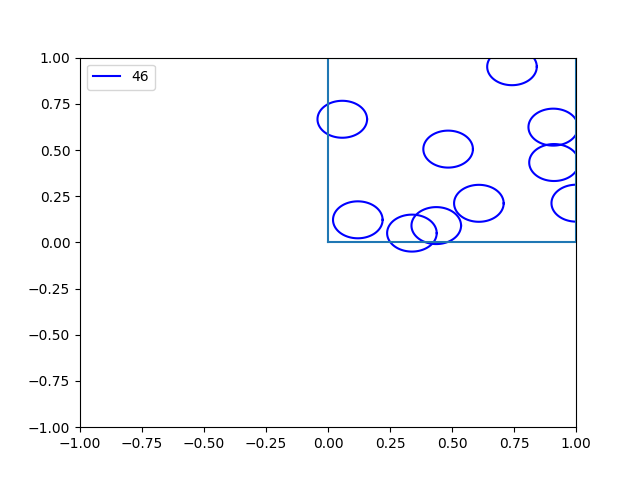
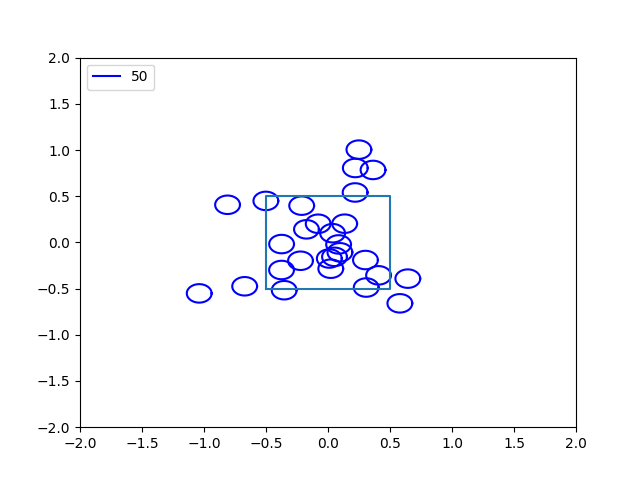
fixed remove_irrelevent_cricles

diff --git a/genetic_algo.py b/genetic_algo.py
@@ -1,4 +1,5 @@
 import numpy as np
+import os, shutil
 from shapely import geometry
 from shapely import ops
 from shapely.ops import cascaded_union
@@ -34,16 +35,21 @@ class Circle:
 
 class Agent:
 
-    def __init__(self, _radius, bounding_box, length):
+    def __init__(self, radius=None, bounding_box=None, length=None, adam=True):
 
         """ bounding_box is a list w/ bottom left corner and top right corner """
 
         self.fitness = -1000 #Dummy value 
-        self.length = length
-        self.radius = _radius
+        self.radius = radius
         self.bounding_box = bounding_box
-        self.circle_list = [Circle(self.radius, (random.uniform(bounding_box[0][0], bounding_box[1][0]),\
+        self.length = length
+
+        if adam == True:
+            self.circle_list = [Circle(self.radius, (random.uniform(bounding_box[0][0], bounding_box[1][0]),\
             random.uniform(bounding_box[0][1], bounding_box[1][1])))  for _ in range(length)]
+
+    def update_agent(self):
+        self.length = len(self.circle_list)
 
     def plot_agent(self):
 
@@ -90,21 +96,19 @@ def total_area_fraction(bounding_box, polygon_list):
 
 def remove_irrelevent_circles(agent, region):
     for circle in agent.circle_list:
-        if region.intersection(circle.polygon) == 0:
-            print(region.intersection(circle.polygon))
+        if region.intersection(circle.polygon).area < .001:
             agent.circle_list.remove(circle)
 
 #GA part
 def init_agents(radius, soft_bounding_box, length = 50):
 
-    return [Agent(radius, soft_bounding_box, length) for _ in range(population)]
+    return [Agent(radius=radius, bounding_box=soft_bounding_box, length=length) for _ in range(population)]
 
 def fitness(agent_list, region, bounding_box):
 
-    alpha = 10
+    alpha = 100
     beta = 20
-    chi = 10
-    gamma = 20
+    chi = 5
 
     for agent in agent_list:
 
@@ -112,8 +116,8 @@ def fitness(agent_list, region, bounding_box):
 
         agent.fitness = (alpha * intersection_region_fraction(region, agent_polygon_list)) - (beta * double_intersection(agent_polygon_list))\
             - (chi * total_area_fraction(bounding_box, agent_polygon_list))
-        #print((alpha * intersection_region_fraction(region, agent_polygon_list)), (beta * double_intersection(agent_polygon_list))\
-            #, chi * total_area_fraction(bounding_box, agent_polygon_list), gamma * (agent.length/100), agent.fitness)
+        print((alpha * intersection_region_fraction(region, agent_polygon_list)), (beta * double_intersection(agent_polygon_list))\
+            , chi * total_area_fraction(bounding_box, agent_polygon_list), agent.fitness)
 
     return agent_list
 
@@ -130,33 +134,35 @@ def crossover(agent_list, region):
     """ Crossover is determined by randomly splitting polygon in half and then taking circles from each side. It'll probably mess up on the
     boundary tbh but I couldn't think of another crossover function """
 
-    def getExtrapoledLine(p1,p2):
-        'Creates a line extrapoled in p1->p2 direction'
-        EXTRAPOL_RATIO = 10
-        a = (p2[0]+EXTRAPOL_RATIO*(p1[0]-p2[0]), p2[1]+EXTRAPOL_RATIO*(p1[1]-p2[1]))
-        b = (p1[0]+EXTRAPOL_RATIO*(p2[0]-p1[0]), p1[1]+EXTRAPOL_RATIO*(p2[1]-p1[1]))
-        return geometry.LineString([a,b])
+    # def getExtrapoledLine(p1,p2):
+    #     'Creates a line extrapoled in p1->p2 direction'
+    #     EXTRAPOL_RATIO = 10
+    #     a = (p2[0]+EXTRAPOL_RATIO*(p1[0]-p2[0]), p2[1]+EXTRAPOL_RATIO*(p1[1]-p2[1]))
+    #     b = (p1[0]+EXTRAPOL_RATIO*(p2[0]-p1[0]), p1[1]+EXTRAPOL_RATIO*(p2[1]-p1[1]))
+    #     return geometry.LineString([a,b])
 
-    line = getExtrapoledLine((region.centroid.x, region.centroid.y), (region.centroid.x + random.uniform(-1, 1), region.centroid.y\
-        + random.uniform(-1, 1)))
+    # line = getExtrapoledLine((region.centroid.x, region.centroid.y), (region.centroid.x + random.uniform(-1, 1), region.centroid.y\
+    #     + random.uniform(-1, 1)))
 
-    merged = ops.linemerge([region.boundary, line])
-    borders = ops.unary_union(merged)
-    polygons = list(ops.polygonize(borders))
+    # merged = ops.linemerge([region.boundary, line])
+    # borders = ops.unary_union(merged)
+    # polygons = list(ops.polygonize(borders))
 
     offspring = []
     for _ in range(round(len(agent_list) / 2)):
 
         parent1 = random.choice(agent_list)
         parent2 = random.choice(agent_list)
-        parent1_circle_half_1 = [circle for circle in parent1.circle_list if circle.center.within(polygons[0])]
-        parent1_circle_half_2 = [circle for circle in parent1.circle_list if circle.center.within(polygons[1])]
-        parent2_circle_half_1 = [circle for circle in parent2.circle_list if circle.center.within(polygons[0])]
-        parent2_circle_half_2 = [circle for circle in parent2.circle_list if circle.center.within(polygons[1])]
+        parent1_circle_half_1 = [circle for circle in parent1.circle_list[:len(parent1.circle_list)//2]]
+        parent1_circle_half_2 = [circle for circle in parent1.circle_list[len(parent1.circle_list)//2:]]
+        parent2_circle_half_1 = [circle for circle in parent2.circle_list[:len(parent2.circle_list)//2]]
+        parent2_circle_half_2 = [circle for circle in parent2.circle_list[len(parent2.circle_list)//2:]]
         child1 = Agent(parent1.radius, parent1.bounding_box, parent1.length)
         child2 = Agent(parent1.radius, parent1.bounding_box, parent1.length)
         child1.circle_list = parent1_circle_half_1 + parent2_circle_half_2
         child2.circle_list = parent2_circle_half_1 + parent1_circle_half_2
+        child1.update_agent()
+        child2.update_agent()
         
         remove_irrelevent_circles(child1, region)
         remove_irrelevent_circles(child2, region)
@@ -177,11 +183,15 @@ def mutation(agent_list):
             if random.uniform(0, 1) <= .3:
 
                 agent.circle_list.pop(i)
-                agent.length -= 1
+                add_or_sub = random.choice((0,1))
+                if add_or_sub == 0:
+                    agent.length += 1
+                elif add_or_sub == 1:
+                    agent.length -= 1
 
             if random.uniform(0, 1) <= .4:
 
-                agent.circle_list[i - 1].move_circle(random.uniform(-1, 1), random.uniform(-1, 1))
+                agent.circle_list[i - 1].move_circle(random.uniform(-.1, .1), random.uniform(-.1, .1))
 
     return agent_list
 
@@ -196,16 +206,16 @@ def ga(region, soft_bounding_box, hard_bounding_box):
         print("\ngeneration number: {}".format(generation))
 
         print("Determining how much they lift..")
-        agent_list = fitness(agent_list, region, hard_bounding_box)
+        agent_list = fitness(agent_list, region, soft_bounding_box)
         print("Sucessful")
         print()
         print("Executing stragllers")
         agent_list = selection(agent_list)
         print("Darwin has spoken, {} candidates remain".format(len(agent_list)))
-        print()
+        agent_list.sort(key=lambda x: x.fitness, reverse=True)
         agent_list[0].plot_agent()
-        plt.xlim([soft_bounding_box[0][0], soft_bounding_box[1][0]])
-        plt.ylim([soft_bounding_box[0][1], soft_bounding_box[1][1]])
+        plt.xlim([hard_bounding_box[0][0], hard_bounding_box[1][0]])
+        plt.ylim([hard_bounding_box[0][1], hard_bounding_box[1][1]])
         plt.plot(*region.exterior.xy)
         plt.savefig("frames/generation_{0:03d}".format(generation))
         print("frame saved in frames folder")
@@ -231,8 +241,20 @@ global generations
 generations = 20
 
 soft_bounding_box = [(-1,-1), (1,1)]
-hard_bounding_box = [(-5, -5), (5, 5)]
+hard_bounding_box = [(-2, -2), (2, 2)]
 
-test_polygon = geometry.Polygon([(0,0), (0,1), (1,1), (1,0)])
+test_polygon = geometry.Polygon([(-.5,-.5), (.5,-.5), (.5,.5), (-.5,.5)])
+
+#Clearing folder before we add new frames
+folder = '/home/n/Documents/Research/GW-Localization-Tiling/frames'
+for filename in os.listdir(folder):
+    file_path = os.path.join(folder, filename)
+    try:
+        if os.path.isfile(file_path) or os.path.islink(file_path):
+            os.unlink(file_path)
+        elif os.path.isdir(file_path):
+            shutil.rmtree(file_path)
+    except Exception as e:
+        print('Failed to delete %s. Reason: %s' % (file_path, e))
 
 ga(test_polygon, soft_bounding_box, hard_bounding_box)
